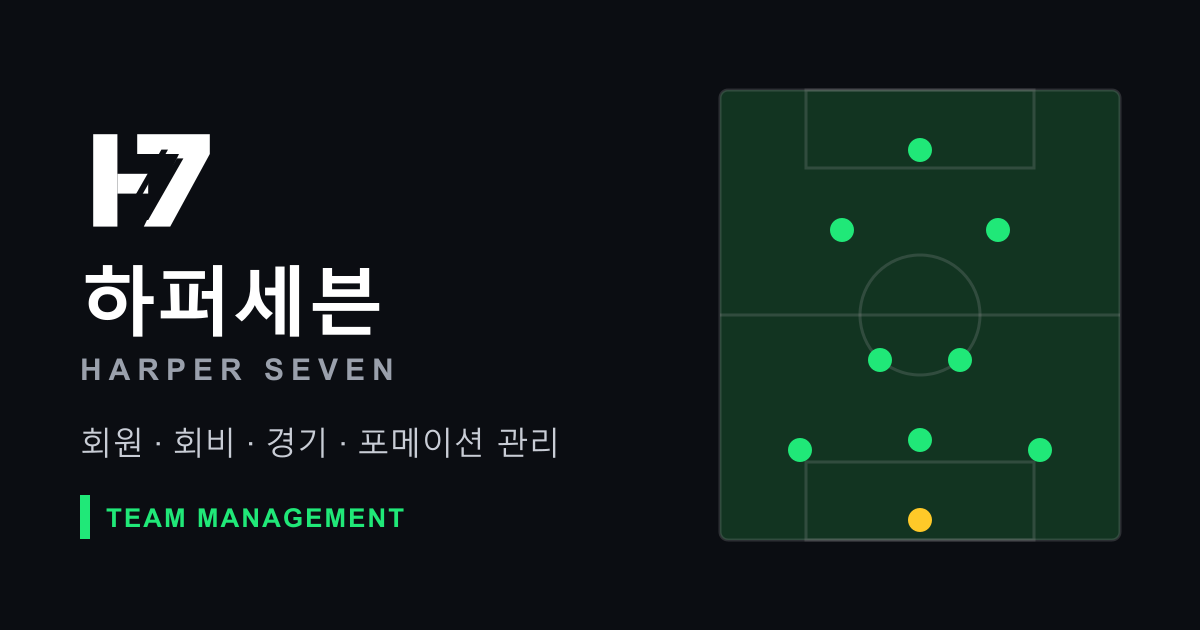
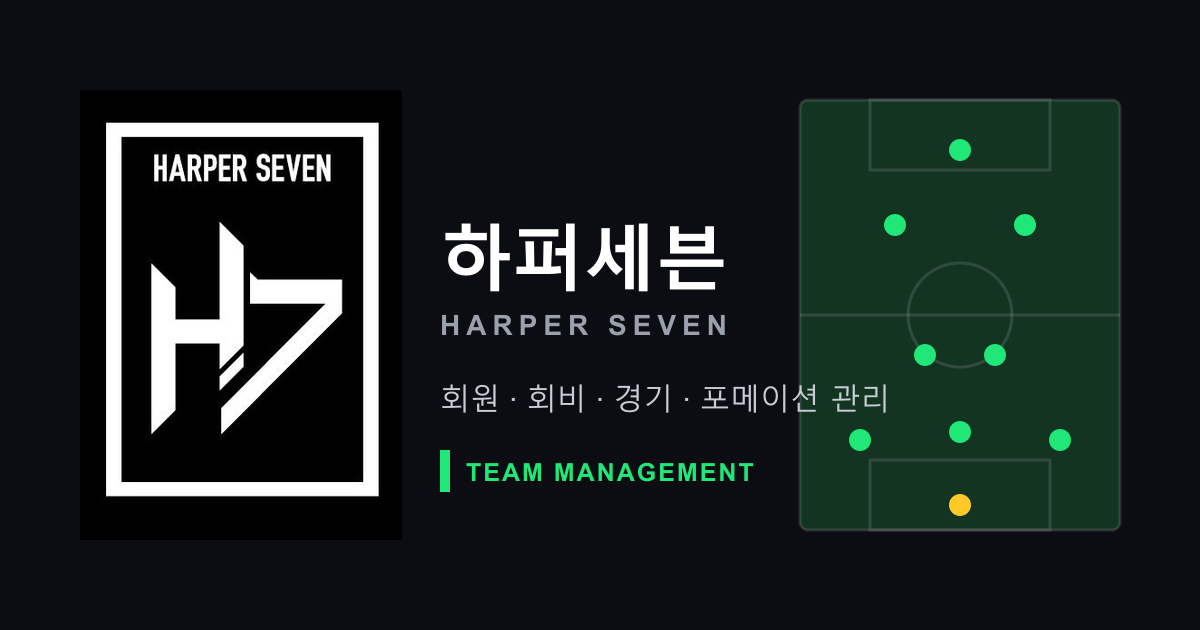
로고를 실제 원본 이미지로 교체 (알파 마스크 방식)
- 원본 로고에서 H7 모노그램을 잘라 알파 마스크 PNG로 만들고 CSS mask + currentColor 로 렌더 — 형태는 원본 그대로, 색은 테마에 따라 반전
- 파비콘(icon.png)·매니페스트 아이콘·OG 이미지(원본 로고 전체 합성) 재생성, 근사 SVG 제거

Changed region(s): [[0.0617, 0.1206, 0.9558, 0.8746], [0.74, 0.3317, 0.8325, 0.4524], [0.8017, 0.3317, 0.8633, 0.3921]]

diff --git a/src/components/brand/Logo.tsx b/src/components/brand/Logo.tsx
@@ -1,40 +1,33 @@
 import React from "react";
 
 /**
- * H7 모노그램 — 로고 원본(검정 바탕 + 흰 H/7, 사선 컷)을 SVG로 재구성.
- * 글리프는 currentColor, 사선 컷은 `cut`(바탕색)으로 그린다.
+ * H7 모노그램 — 실제 로고 이미지(public/logo-mark.png, 알파 마스크)를 CSS mask 로 그린다.
+ * 색은 currentColor 를 따르므로 라이트/다크에서 자동으로 반전된다.
  */
-export function H7Mark({
-  className = "",
-  cut = "var(--logo-bg, #000)",
-  title,
-}: {
-  className?: string;
-  cut?: string;
-  title?: string;
-}) {
+export function H7Mark({ className = "", title }: { className?: string; title?: string }) {
+  const maskStyle: React.CSSProperties = {
+    backgroundColor: "currentColor",
+    WebkitMaskImage: "url(/logo-mark.png)",
+    maskImage: "url(/logo-mark.png)",
+    WebkitMaskSize: "contain",
+    maskSize: "contain",
+    WebkitMaskRepeat: "no-repeat",
+    maskRepeat: "no-repeat",
+    WebkitMaskPosition: "center",
+    maskPosition: "center",
+  };
   return (
-    <svg
-      viewBox="0 0 64 64"
-      className={className}
+    <span
+      className={`inline-block ${className}`}
+      style={maskStyle}
       role={title ? "img" : undefined}
       aria-hidden={title ? undefined : true}
       aria-label={title}
-    >
-      {/* H 왼쪽 기둥 */}
-      <rect x="6" y="11" width="11" height="42" fill="currentColor" />
-      {/* H 가로대 → 7로 연결 */}
-      <rect x="17" y="29" width="14" height="9" fill="currentColor" />
-      {/* 7 */}
-      <polygon points="26,11 59,11 59,20 41,53 29,53 45,20 26,20" fill="currentColor" />
-      {/* 사선 컷 (스피드 라인) */}
-      <polygon points="21,46 37,18 40,18 24,46" fill={cut} />
-      <polygon points="28,50 44,22 47,22 31,50" fill={cut} />
-    </svg>
+    />
   );
 }
 
-/** 로고 박스: 라이트=검정 박스/흰 마크, 다크=흰 박스/검정 마크 */
+/** 로고 박스: 라이트=검정 박스/흰 마크, 다크=흰 박스/검정 마크 (로고 원본의 반전 규칙) */
 export function LogoBox({ size = 44, className = "" }: { size?: number; className?: string }) {
   return (
     <span
@@ -42,7 +35,7 @@ export function LogoBox({ size = 44, className = "" }: { size?: number; classNam
       style={{ width: size, height: size }}
       aria-hidden="true"
     >
-      <H7Mark className="h-[72%] w-[72%]" cut="rgb(var(--c-brand))" />
+      <H7Mark className="h-[86%] w-[86%]" />
     </span>
   );
 }
